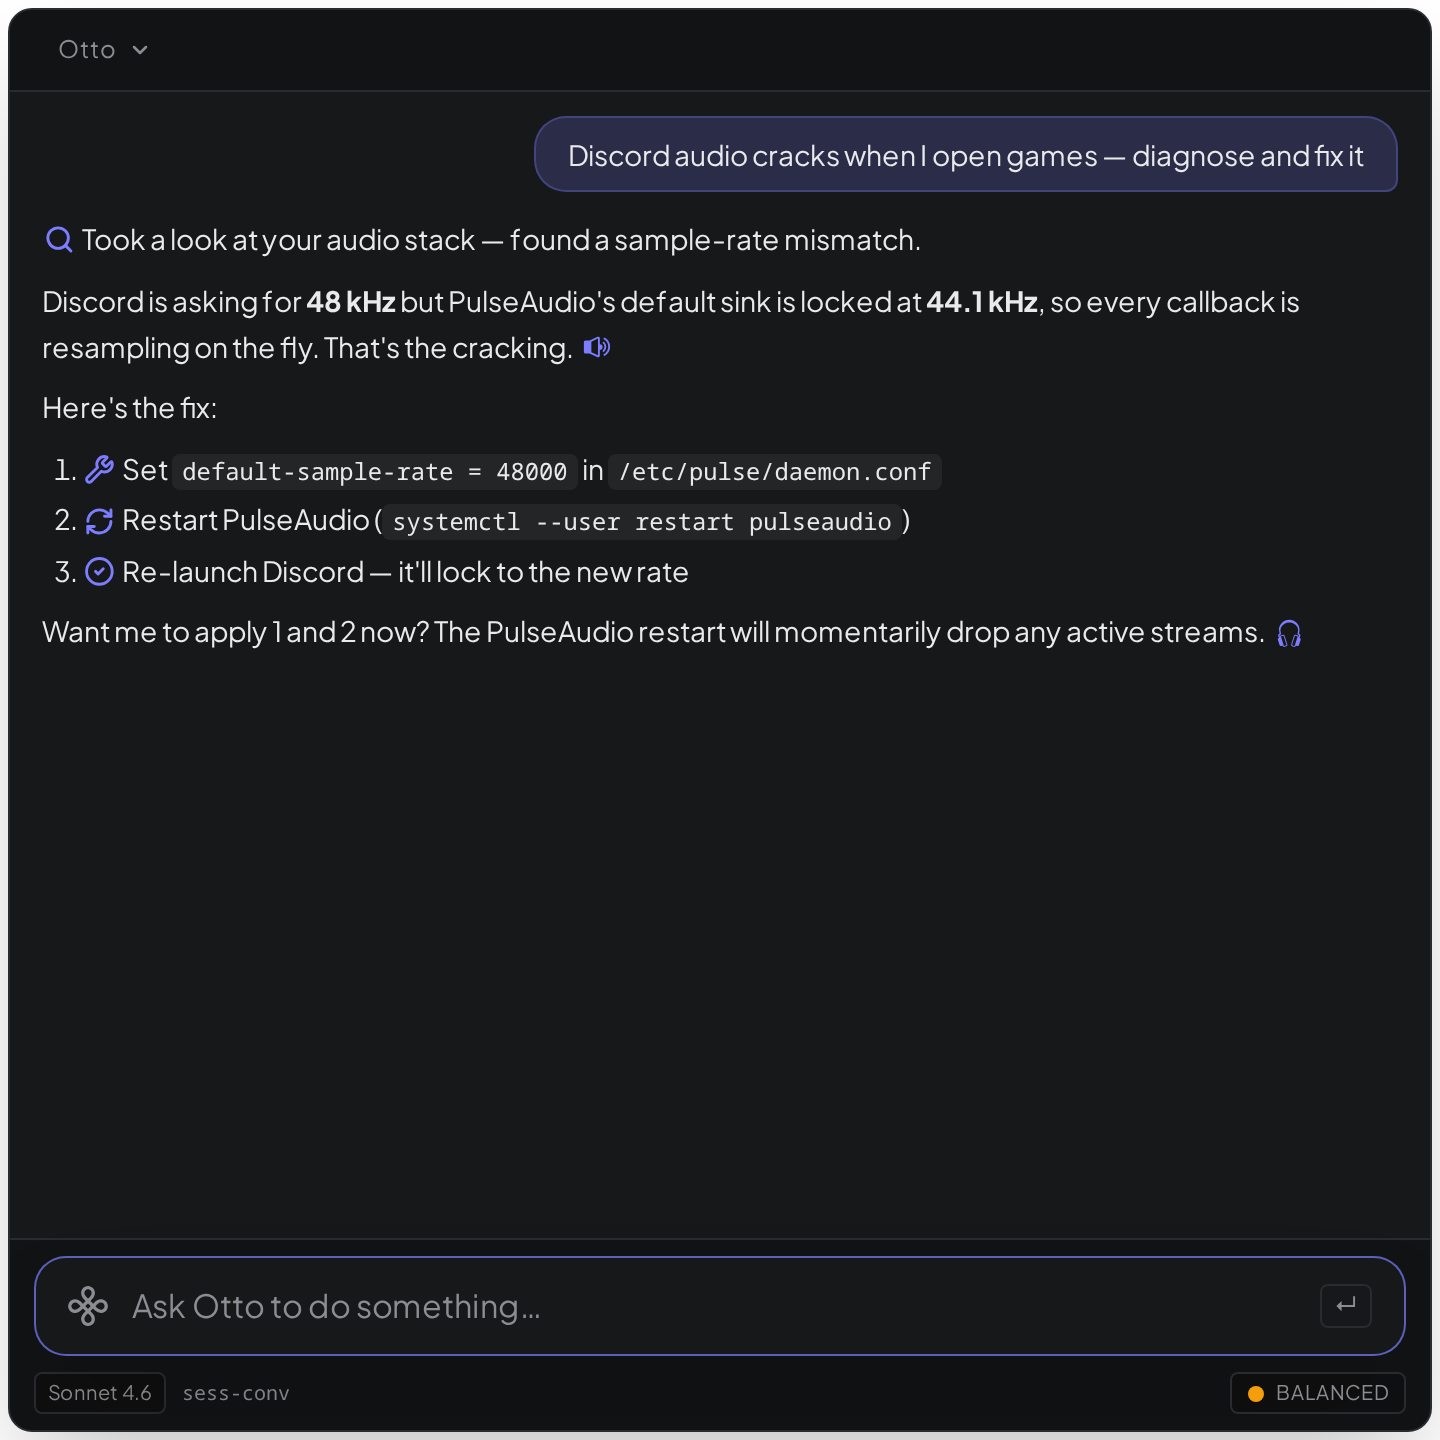
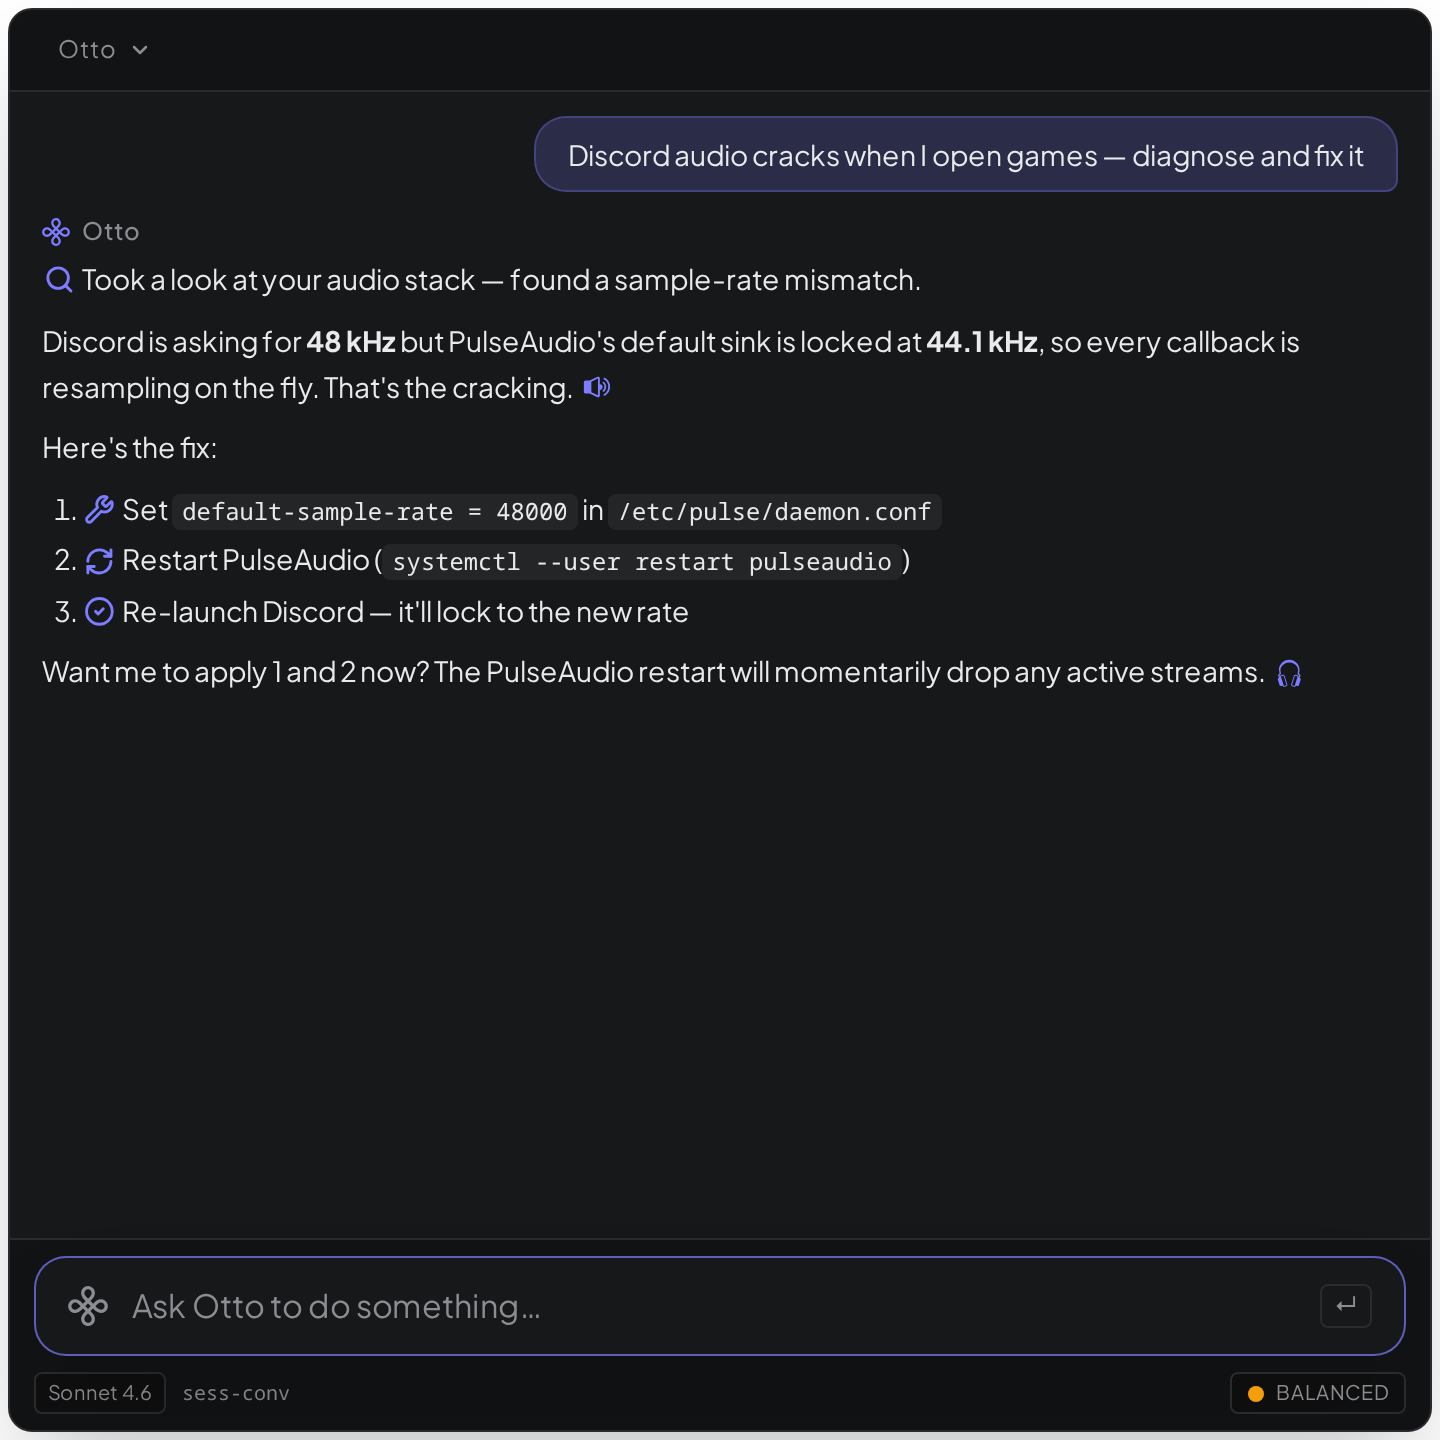
feat(ui): add Otto heading to assistant messages
Each assistant turn now starts with a small 'Otto' label preceded by the
brand mark glyph, in muted text. Breaks up consecutive responses and
gives the AI's voice an explicit identity without competing with the
content. Regenerates the conversation README screenshot to match.

Changed region(s): [[0.0312, 0.1562, 0.9062, 0.4688]]

diff --git a/src/renderer/components/Message.tsx b/src/renderer/components/Message.tsx
@@ -6,6 +6,7 @@ import { ApprovalCard } from './ApprovalCard';
 import { ProcessCard } from './ProcessCard';
 import { rehypeEmojiIcons } from './rehype-emoji-icons';
 import { EMOJI_TO_ICON, fluentEmojiUrl } from './emoji-icons';
+import { OttoMark } from './OttoMark';
 
 const markdownComponents: Components = {
   // The rehype plugin emits <span class="otto-emoji" data-emoji="…" />; we
@@ -98,6 +99,10 @@ export function MessageView({ message, isStreamingTarget = false }: Props) {
       .join(' ');
     return (
       <div data-testid="message-assistant" className={cls}>
+        <div className="flex items-center gap-1.5 mb-1 text-xs font-medium text-muted">
+          <OttoMark className="w-3.5 h-3.5 text-accent" />
+          <span>Otto</span>
+        </div>
         {renderBlocks(message.content, isStreamingTarget)}
         {message.cancelled && <div className="text-xs text-muted mt-1">(cancelled)</div>}
         {message.errored && <div className="text-xs text-danger mt-1">(error)</div>}